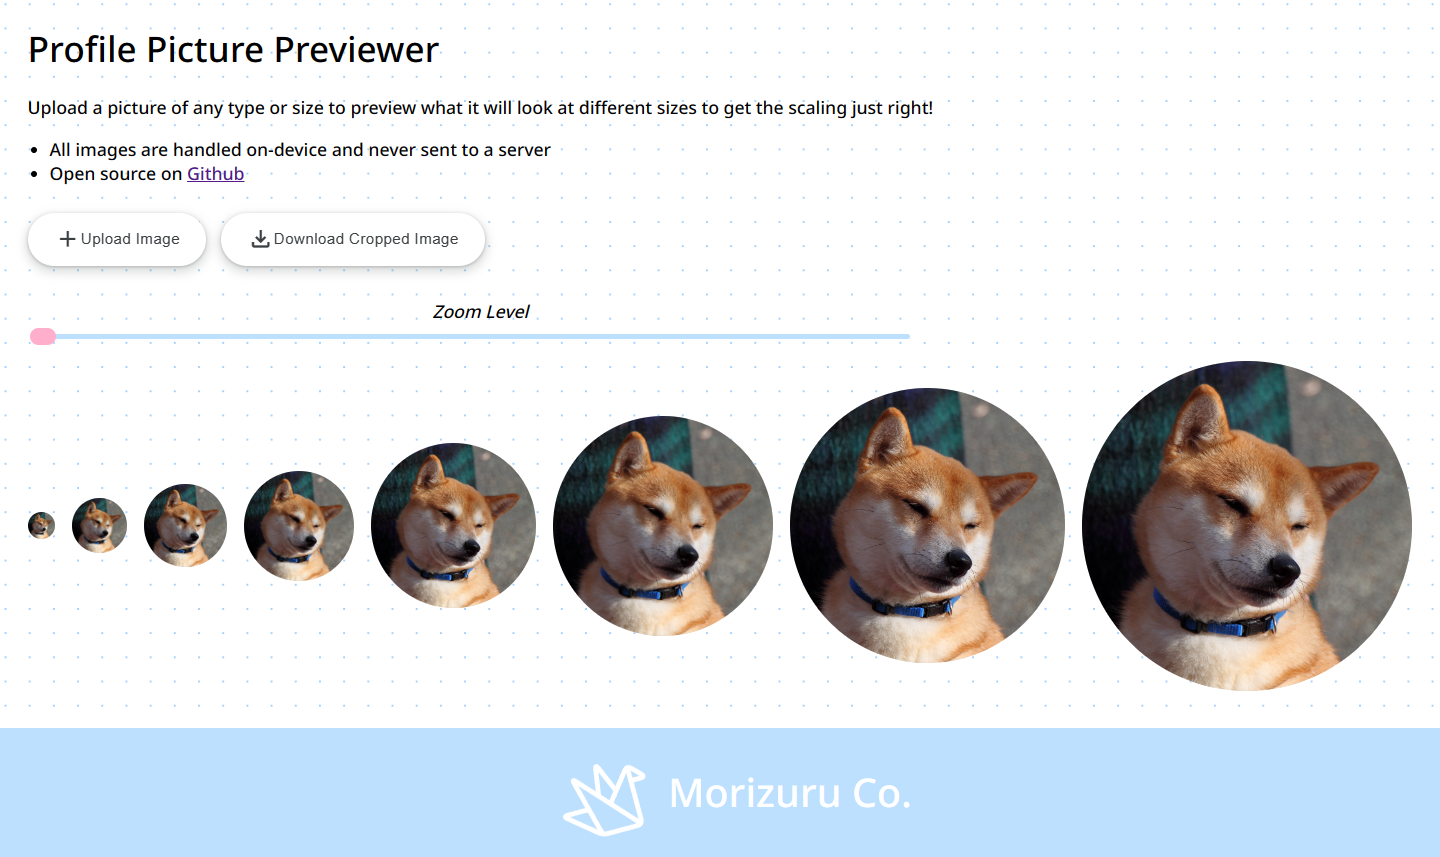
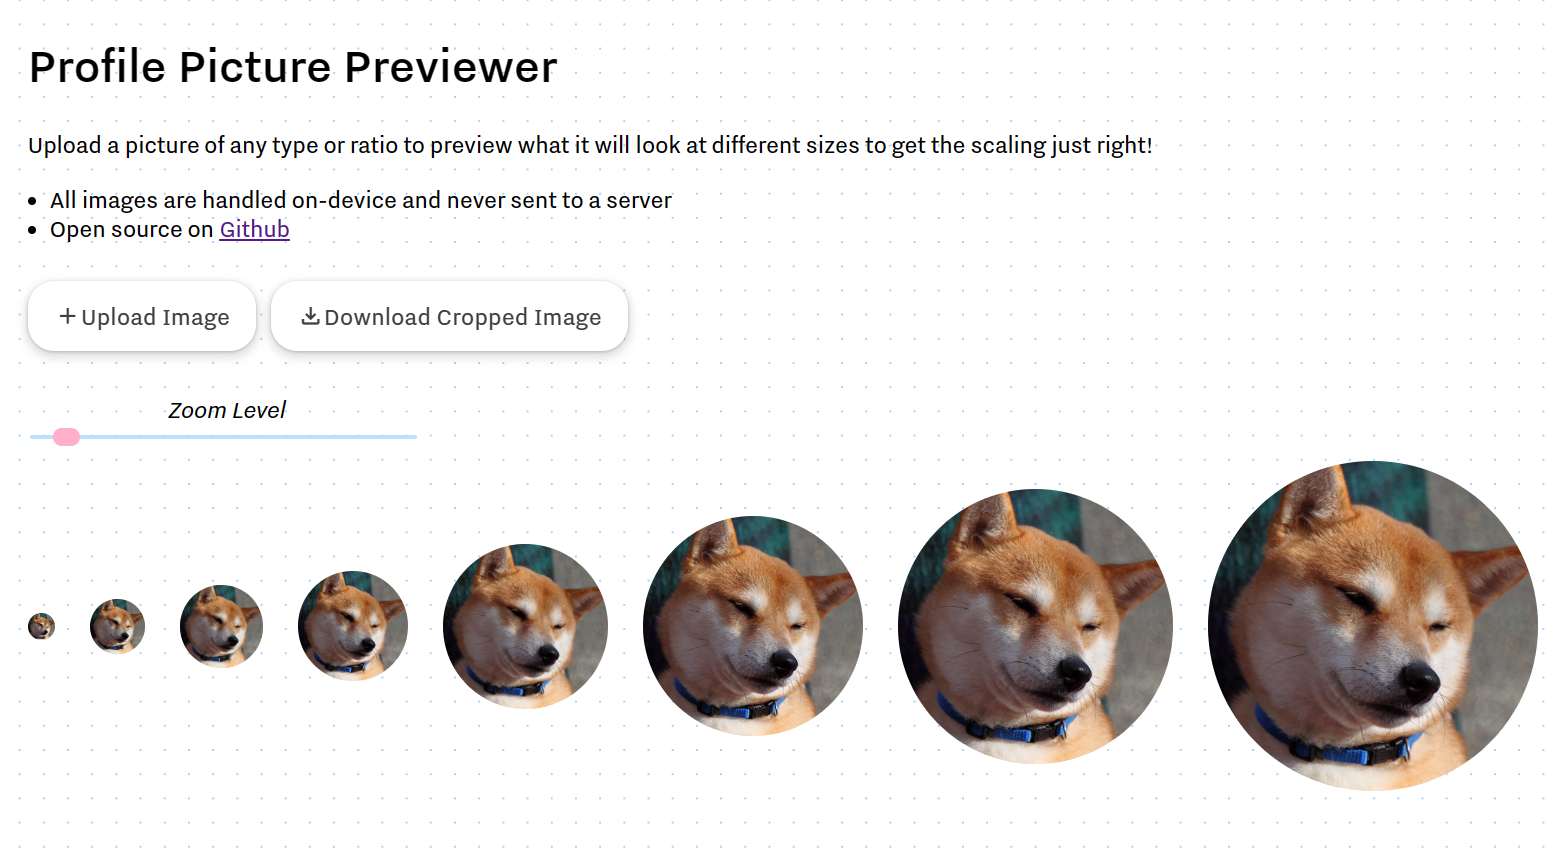
Rework of fonts and mobile scaling

diff --git a/docs/index.html b/docs/index.html
@@ -1,10 +1,33 @@
 <!DOCTYPE html>
 <html>
 <head>
-<link href="https://fonts.googleapis.com/css2?family=Noto+Sans:wght@500&amp;display=swap" rel="stylesheet"/><title>Profile Picture Preview</title>
-<link rel="stylesheet" href="https://fonts.googleapis.com/css2?family=Material+Symbols+Outlined:opsz,wght,FILL,GRAD@20..48,100..700,0..1,-50..200" />
-<meta name="viewport" content="width=device-width, initial-scale=1.0">
+  <link rel="stylesheet" href="https://use.typekit.net/usb3efr.css">
+  <link rel="stylesheet" href="https://fonts.googleapis.com/css2?family=Material+Symbols+Outlined:opsz,wght,FILL,GRAD@20..48,100..700,0..1,-50..200" />
+  <meta name="viewport" content="width=device-width, initial-scale=1.0">
 <style>
+    body, h1, p, ul, a, footer {
+      font-family: "nitti-grotesk", sans-serif;
+    }
+    h1 {
+      font-weight: 500;
+      font-size: 48px;
+    }
+    p, ul {
+      font-weight: 400;
+      font-size: 24px;
+    }
+    /* For italic text */
+    em {
+      font-family: "nitti-grotesk", sans-serif;
+      font-weight: 400;
+      font-style: italic;
+    }
+    /* For bold text */
+    strong {
+      font-family: "nitti-grotesk", sans-serif;
+      font-weight: 600;
+    }
+
     body {
     --dot-bg: white;
     --dot-color: #a2d2ff;
@@ -20,6 +43,8 @@
       margin-bottom: 1rem;
     }
     .button-m3 {
+      font-family: "nitti-grotesk", sans-serif;
+      font-size: 24px;
       align-items: center;
       appearance: none;
       background-color: #fff;
@@ -31,10 +56,7 @@
       cursor: pointer;
       display: inline-flex;
       fill: currentcolor;
-      font-family: "Google Sans",Roboto,Arial,sans-serif;
-      font-size: 14px;
-      font-weight: 500;
-      height: 48px;
+      height: 64px;
       justify-content: center;
       letter-spacing: .25px;
       line-height: normal;
@@ -53,7 +75,7 @@
       z-index: 0;
       margin-top: 10px;
       margin-right: 10px;
-      margin-bottom: 10px;
+      margin-bottom: 20px;
     }
     .button-m3:hover, .button-m3.spinning-rainbow {
       background: #F6F9FE;
@@ -106,7 +128,7 @@
       appearance: none;
       background: transparent;
       cursor: pointer;
-      width: 50rem;
+      width: 22rem;
       margin-top: 20px;
       margin-bottom: 20px;
     }
@@ -165,18 +187,18 @@
       margin: 0;
       padding: 0;
       height: 100%;
+      overflow: hidden;
     }
     #main-content {
-      min-height: calc(100% - 60px);
+      min-height: calc(100vh - 60px);
       padding-left: 25px;
       padding-right: 25px;
     }
     #zoomLabel {
       margin-top: 20px;
-      margin-left: 23rem;
+      margin-left: 8rem;
       margin-bottom: -10px;
       font-style: italic;
-      font-family: 'Noto Sans', sans-serif;
     }
     footer {
       background-color: #bde0fe;
@@ -231,16 +253,7 @@
       90% { border-color: violet; }
       100% { border-color: red; }
     }
-    @media (max-width: 806px) {
-      .button-m3 {
-        transform: scale(1.25);
-        margin-left: 55px;
-      }
 
-      .button-m3:first-of-type {
-        margin-left: 25px;
-      }
-    }
     .spinning-rainbow {
       animation: spinRainbow 1.5s linear infinite;
       border: 2px solid red; /* Initial color */
@@ -257,9 +270,9 @@
 </head>
 <body>
 <div id="main-content">
-<h1 style="font-family: 'Noto Sans', sans-serif; font-weight: 500;">Profile Picture Previewer</h1>
-<p style="font-family: 'Noto Sans', sans-serif; font-weight: 400;">Upload a picture of any type or ratio to preview what it will look at different sizes to get the scaling just right!</p>
-<ul style="font-family: 'Noto Sans', sans-serif; font-weight: 400; list-style-type: disc; padding-left: 20px;">
+<h1>Profile Picture Previewer</h1>
+<p>Upload a picture of any type or ratio to preview what it will look at different sizes to get the scaling just right!</p>
+<ul style="list-style-type: disc; padding-left: 20px;">
   <li>All images are handled on-device and never sent to a server</li>
   <li>Open source on <a href="https://github.com/Maclean-D/PFP-Preview" target="_blank">Github</a></li>
 </ul>
@@ -379,7 +392,7 @@
       c-1.491,0.4-3.422,0.543-5.41,0.467L28.082,42.186l105.7,67.876L80.055,124.458z M126.347,26.936l-3.386-12.639l15.895,9.287
       L126.347,26.936z"/>
     </svg>
-  <a href="https://www.morizuru.co/" style="color: white; text-decoration: none; font-family: 'Noto Sans', sans-serif; font-size: 36px">Morizuru Co.</a>
+    <a href="https://www.morizuru.co/" style="color: white; text-decoration: none; font-family: 'nitti-grotesk', sans-serif; font-weight: 500; font-size: 48px; margin-right: 30px;">Morizuru Co.</a>
 </footer>
 </body>
 </html>
